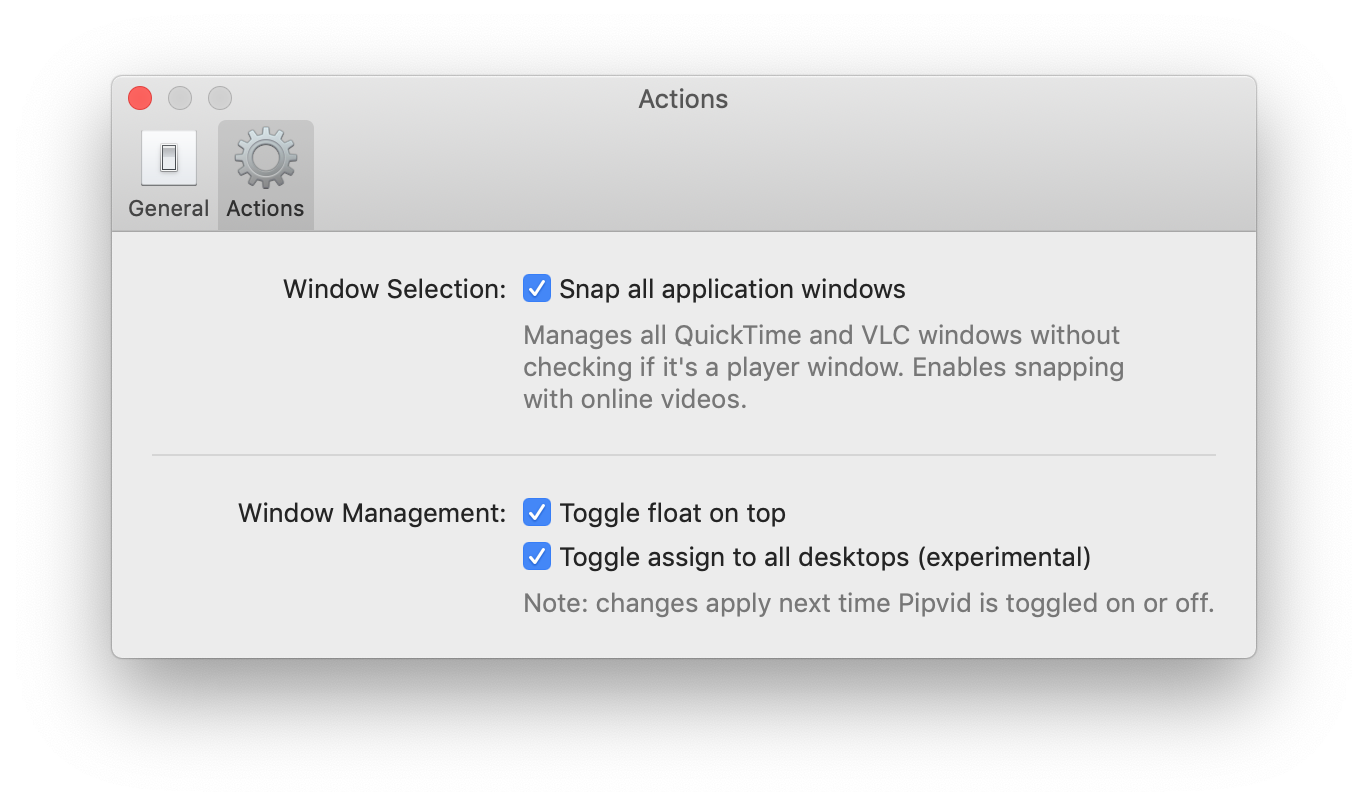
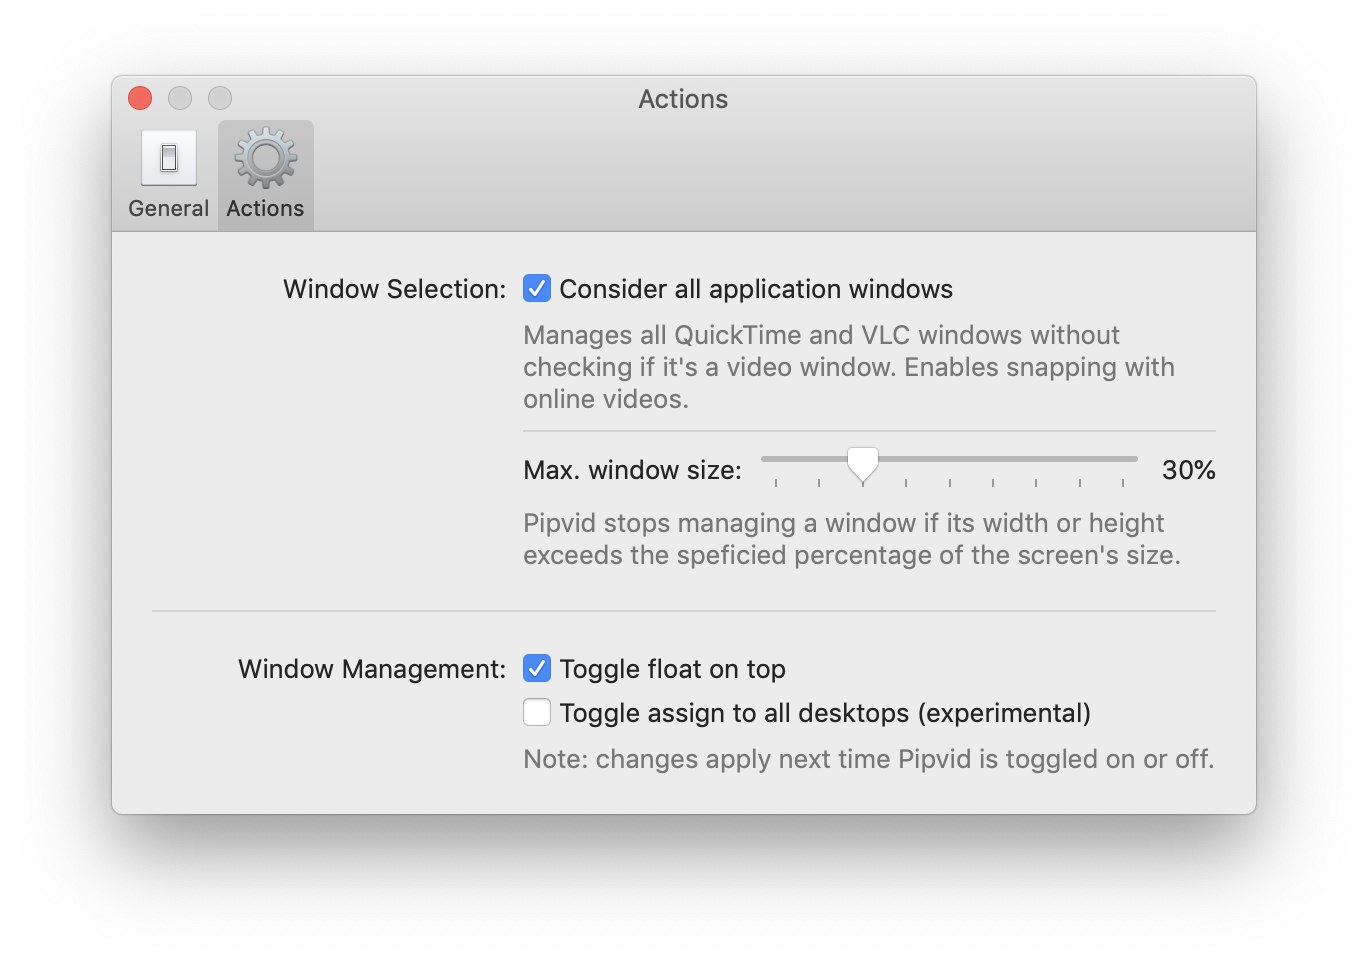
Add posts about Pipvid

diff --git a/pipvid.html b/pipvid.html
@@ -98,16 +98,16 @@ permalink: /pipvid/
 <section class="section is-medium">
   <div class="container">
     <div class="columns">
-      <div class="column is-4">
+      <div class="column is-offset-1 is-5">
         <div class="content">
-          <h2 class="title is-2">Works across spaces</h2>
-          <p>Optionally assign QuickTime and VLC to all your desktops, making sure the window travels with you when you switch spaces.</p>
-          <p><small>Note: this is an experimental feature, enable it first in Preferences.</small></p>
+          <h2 class="title is-2">Enabled when needed</h2>
+          <p>You can customize the maximum width and height up to which Pipvid should manage the video player's window.</p>
+          <p>This means you can use VLC and QuickTime like normal when the window takes up a bigger part of the screen and then automatically switch into picture-in-picture mode when you shrink the window down.</p>
         </div>
       </div>
-      <div class="column is-offset-1 is-7">
+      <div class="column is-offset-1 is-5">
         <figure>
-          <img src="/assets/img/app/pipvid-spaces.jpg" alt="Shows a video running while switching between spaces" style="width: 960px;">
+          <img src="/assets/img/app/pipvid-preferences.png" alt="Shows Pipvid's preferences screen where you can modify its behavior" style="width: 684px;">
         </figure>
       </div>
     </div>
@@ -117,17 +117,19 @@ permalink: /pipvid/
 <section class="section is-medium">
   <div class="container">
     <div class="columns">
-      <div class="column is-offset-1 is-5">
+      <div class="column is-7">
         <figure>
-          <img src="/assets/img/app/pipvid-preferences.png" alt="Shows Pipvid's preferences screen where you can modify its behavior" style="width: 684px;">
+          <img src="/assets/img/app/pipvid-spaces.jpg" alt="Shows a video running while switching between spaces" style="width: 960px;">
         </figure>
       </div>
-      <div class="column is-offset-1 is-5">
+      <div class="column is-offset-1 is-4">
         <div class="content">
-          <h2 class="title is-2">Customize behavior</h2>
-          <p>Change settings to suit your needs. If you don't need Pipvid's functionality, simply use the menu bar icon to turn it off temporarily.</p>
+          <h2 class="title is-2">Works across spaces</h2>
+          <p>Optionally assign QuickTime and VLC to all your desktops, making sure the window travels with you when you switch spaces.</p>
+          <p><small>Note: this is an experimental feature, enable it first in Preferences.</small></p>
         </div>
       </div>
     </div>
   </div>
 </section>
+

diff --git a/_posts/2019-06-13-pipvid-out-now.md b/_posts/2019-06-13-pipvid-out-now.md
@@ -1,0 +1,15 @@
+---
+layout: post
+title: "Introducing Pipvid"
+date: 2019-06-13 10:00:00
+tags: [releases, pipvid]
+description: "Adds a picture-in-picture mode to VLC and QuickTime. Ideal for watching videos in the corner of your screen while you work on something else."
+---
+
+With [Pipvid](/pipvid) both VLC and QuickTime gain a picture-in-picture mode. Ideal for watching videos in the corner of your screen while you work on something else.
+
+![A screenshot of a desktop where Pipvid puts VLC in the bottom right corner](/assets/img/app/pipvid-float.jpg)
+
+Pipvid automatically enables float-on-top for the player window and can optionally ensure the window video remains visible on every Space. The window snaps to any corner, of any screen attached to your Mac.
+
+You can try Pipvid for free for 10 minutes at a time. Once you're convinced, you can [purchase a license](/pipvid/buy) through Gumroad.

diff --git a/_posts/2019-06-19-enable-pipvid-based-on-window-size.md b/_posts/2019-06-19-enable-pipvid-based-on-window-size.md
@@ -1,0 +1,15 @@
+---
+layout: post
+title: "Toggle Pipvid based on window size"
+date: 2019-06-13 10:00:00
+tags: [releases, pipvid]
+description: "Pipvid v1.1 makes it possible to automatically toggle snapping based on the window size."
+---
+
+Pipvid v1.1 was just released! 🚀
+
+![A screenshot Pipvid's preferences screen, showing the size based options](/assets/img/app/pipvid-preferences.png)
+
+This update adds a brand new feature: it allows you to specify the maximum window size up to which Pipvid should manage it.
+
+Using this setting means you can keep Pipvid turned on, use the player window as normal when it takes up a certain part of the screen, then shrink it down and Pipvid will automatically snap it into the corner. It's size based automatic picture-on-picture mode. 👌
